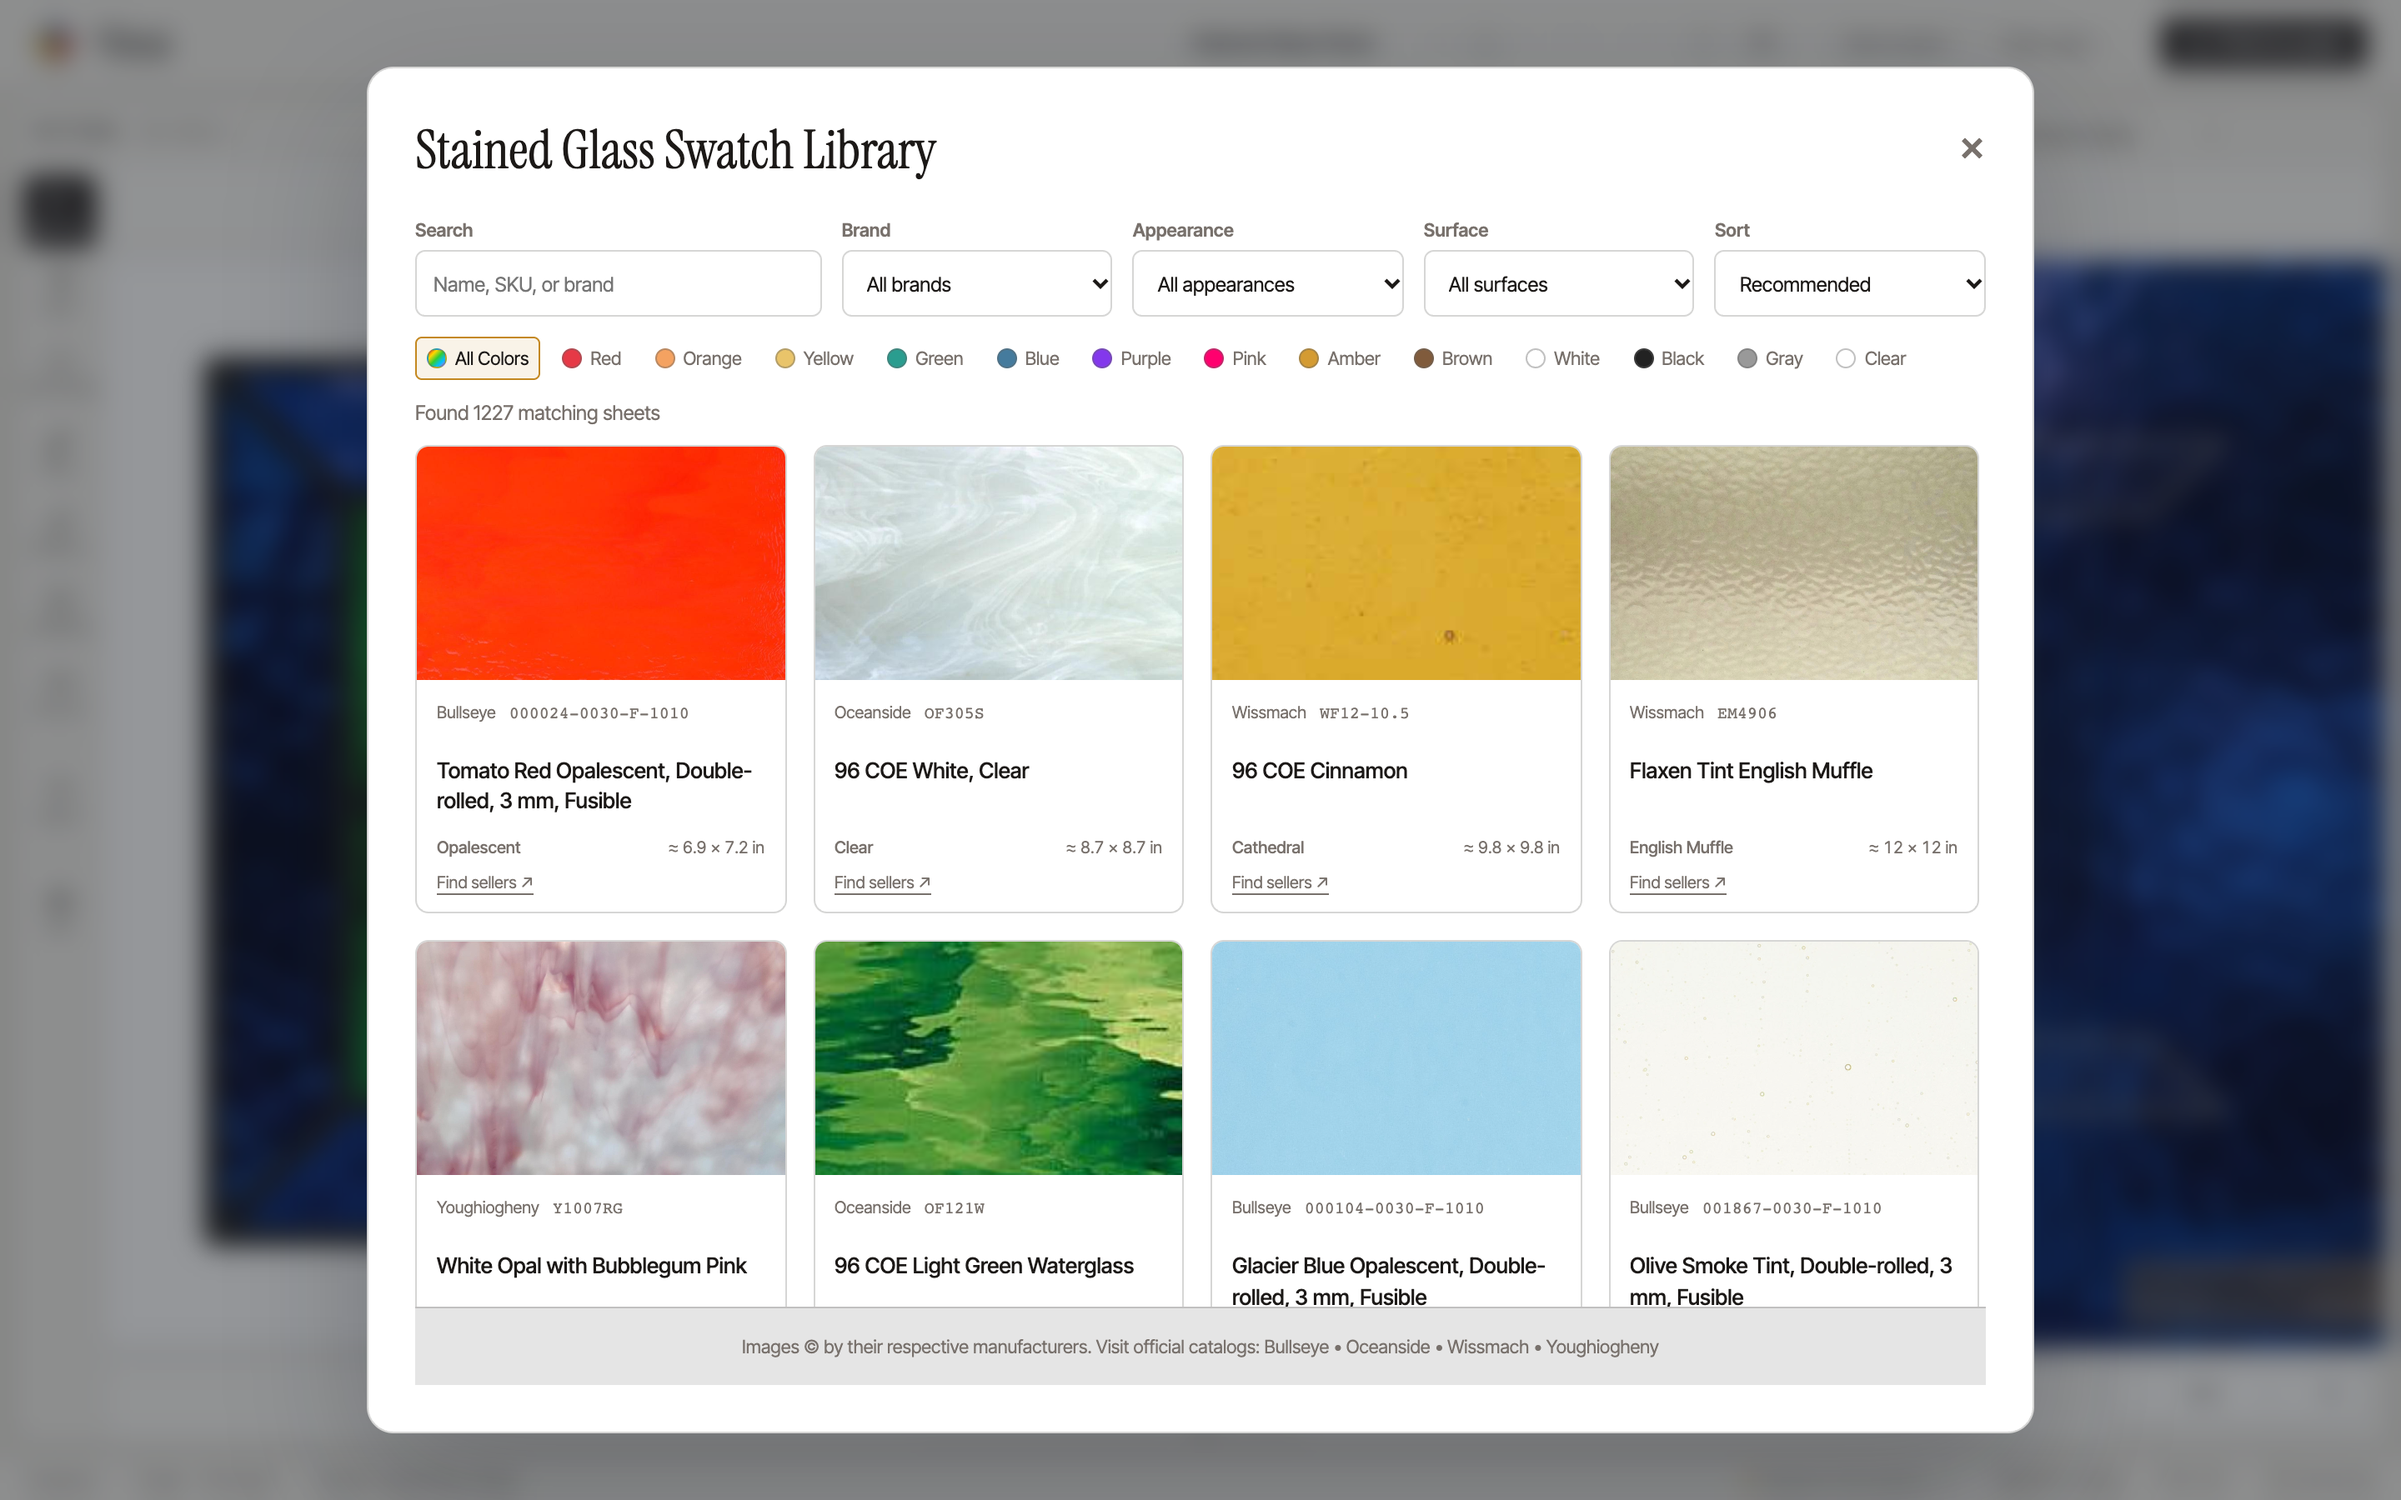
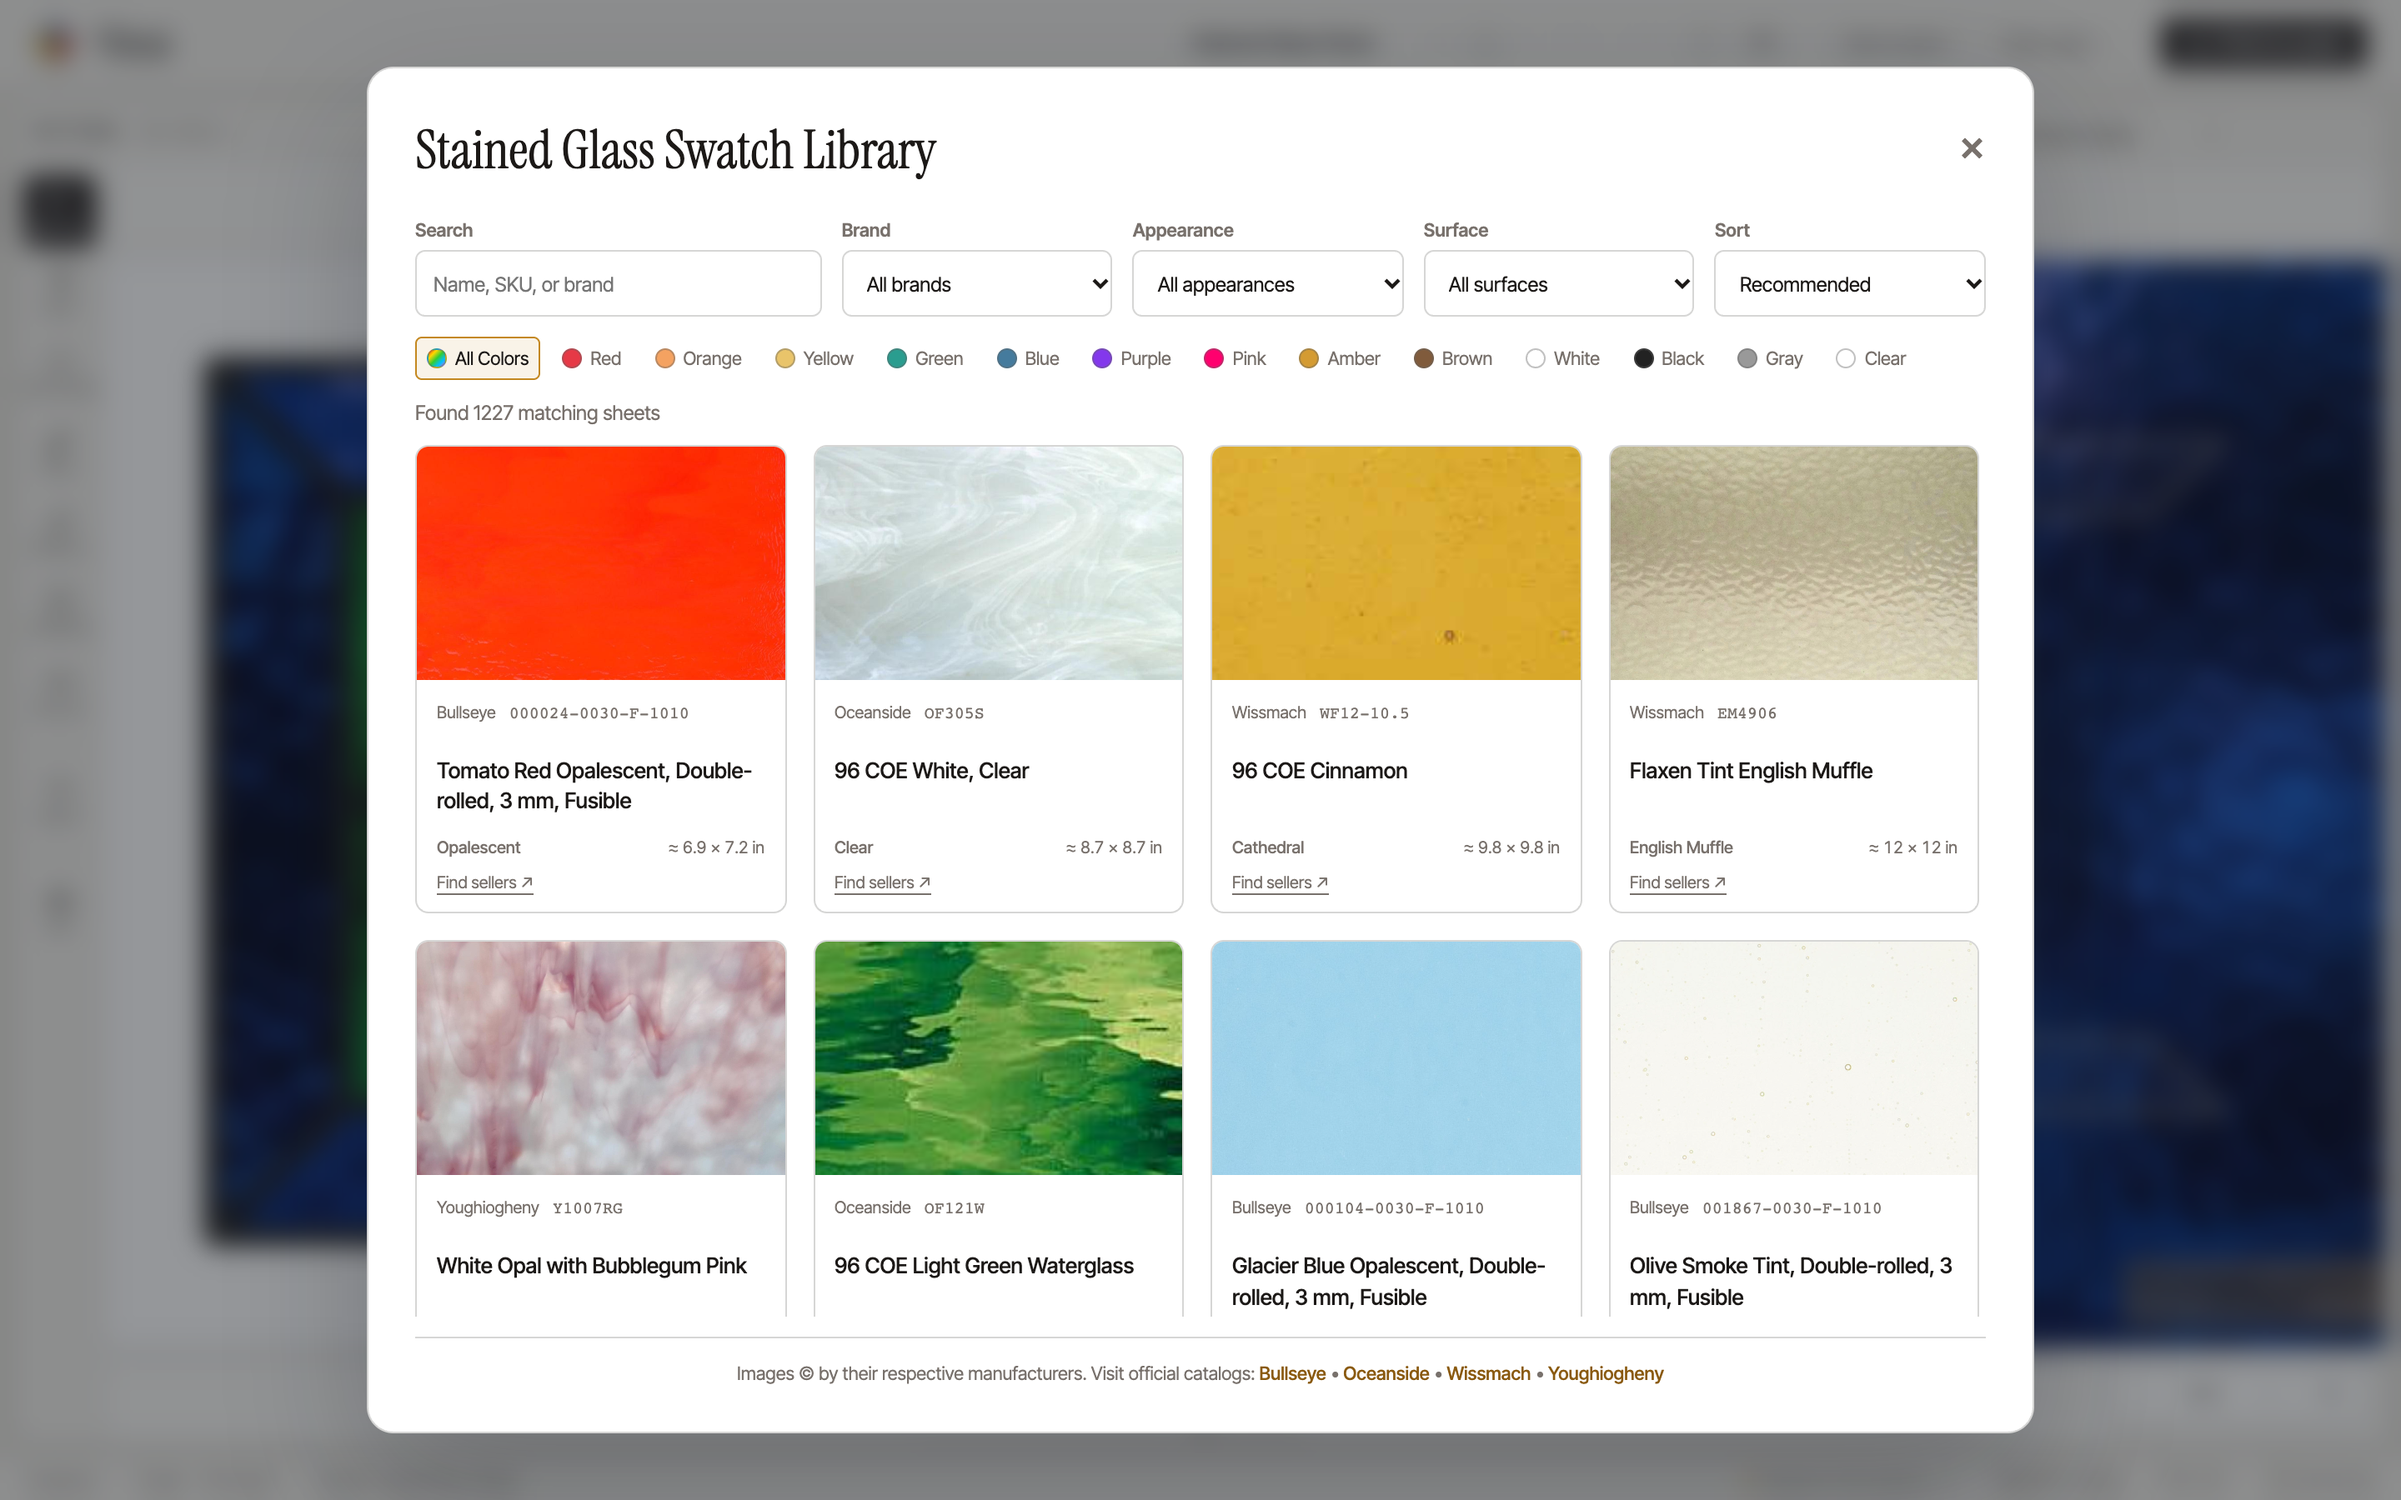
chore: align repo tests, unused prototype, and library footer with AGENTS.md (#150)

Changed region(s): [[0.1562, 0.8711, 0.8438, 0.9333]]

diff --git a/frontend/src/editor/__tests__/pieceLayers.test.tsx b/frontend/src/editor/__tests__/pieceLayers.test.tsx
@@ -4,14 +4,12 @@ vi.mock("react-konva", () => ({
   Layer: ({ children }: { children: React.ReactNode }) => (
     <section>{children}</section>
   ),
-}));
-vi.mock("../viewport/viewportStore", () => ({
-  ViewportGroup: ({ children }: { children: React.ReactNode }) => (
+  Group: ({ children }: { children: React.ReactNode }) => (
     <div>{children}</div>
   ),
 }));
 import { PieceViewportLayers } from "../../components/canvas/PieceViewportLayers";
-import type { ViewportStore } from "../viewport/viewportStore";
+import { ViewportStore } from "../viewport/viewportStore";
 import { partitionPieces } from "../geometry/partitionPieces";
 function Piece({ piece }: { piece: { id: string } }) {
   return <span>{piece.id}</span>;
@@ -29,11 +27,12 @@ describe("selected-piece drawing ranges", () => {
     }
   });
   it("isolates the selected piece without moving neighbors above or below it", () => {
+    const store = new ViewportStore();
     const nodes = ["a", "b", "c"].map((id) => (
       <Piece key={id} piece={{ id }} />
     ));
     const tree = create(
-      <PieceViewportLayers store={{} as ViewportStore} activeId="b">
+      <PieceViewportLayers store={store} activeId="b">
         {nodes}
       </PieceViewportLayers>,
     );
@@ -45,7 +44,7 @@ describe("selected-piece drawing ranges", () => {
         ),
     ).toEqual([["a"], ["b"], ["c"]]);
     tree.update(
-      <PieceViewportLayers store={{} as ViewportStore} activeId="b" disabled>
+      <PieceViewportLayers store={store} activeId="b" disabled>
         {nodes}
       </PieceViewportLayers>,
     );
@@ -53,12 +52,13 @@ describe("selected-piece drawing ranges", () => {
     tree.unmount();
   });
   it("keeps handles after active content and screen overlays on the final drawing surface", () => {
+    const store = new ViewportStore();
     const nodes = ["a", "b", "c"].map((id) => (
       <Piece key={id} piece={{ id }} />
     ));
     const tree = create(
       <PieceViewportLayers
-        store={{} as ViewportStore}
+        store={store}
         activeId="b"
         followingWithActive
         overlay={<p>guides</p>}

diff --git a/frontend/src/components/GlassLibraryDialog.tsx b/frontend/src/components/GlassLibraryDialog.tsx
@@ -291,19 +291,12 @@ export function GlassLibraryDialog({ onPick, onClose }: Props) {
             </>
           )}
         </div>
-        <div className="glass-library-footer" style={{
-          padding: '16px 24px',
-          borderTop: '1px solid var(--hairline-2)',
-          textAlign: 'center',
-          fontSize: '11px',
-          color: 'var(--text-dim)',
-          background: 'rgba(0, 0, 0, 0.1)'
-        }}>
+        <div className="glass-library-footer">
           Images &copy; by their respective manufacturers. Visit official catalogs:{' '}
-          <a href="https://shop.bullseyeglass.com/" target="_blank" rel="noopener noreferrer" style={{ color: 'var(--accent)', textDecoration: 'none' }}>Bullseye</a> •{' '}
-          <a href="https://www.oceansideglass.com/" target="_blank" rel="noopener noreferrer" style={{ color: 'var(--accent)', textDecoration: 'none' }}>Oceanside</a> •{' '}
-          <a href="https://wissmachglass.com/" target="_blank" rel="noopener noreferrer" style={{ color: 'var(--accent)', textDecoration: 'none' }}>Wissmach</a> •{' '}
-          <a href="https://www.youghioghenyglass.com/" target="_blank" rel="noopener noreferrer" style={{ color: 'var(--accent)', textDecoration: 'none' }}>Youghiogheny</a>
+          <a href="https://shop.bullseyeglass.com/" target="_blank" rel="noopener noreferrer">Bullseye</a> •{' '}
+          <a href="https://www.oceansideglass.com/" target="_blank" rel="noopener noreferrer">Oceanside</a> •{' '}
+          <a href="https://wissmachglass.com/" target="_blank" rel="noopener noreferrer">Wissmach</a> •{' '}
+          <a href="https://www.youghioghenyglass.com/" target="_blank" rel="noopener noreferrer">Youghiogheny</a>
         </div>
       </div>
     </div>

diff --git a/frontend/src/components/GlassLibraryDialog.css b/frontend/src/components/GlassLibraryDialog.css
@@ -319,3 +319,23 @@
 
 
 .glass-library-card-scale { white-space: nowrap; }
+
+.glass-library-footer {
+  padding-top: 14px;
+  margin-top: 12px;
+  border-top: 1px solid var(--hairline-2);
+  text-align: center;
+  font-size: 11px;
+  color: var(--text-dim);
+  flex-shrink: 0;
+}
+
+.glass-library-footer a {
+  color: var(--amber-ink);
+  text-decoration: none;
+  font-weight: 500;
+}
+
+.glass-library-footer a:hover {
+  text-decoration: underline;
+}
